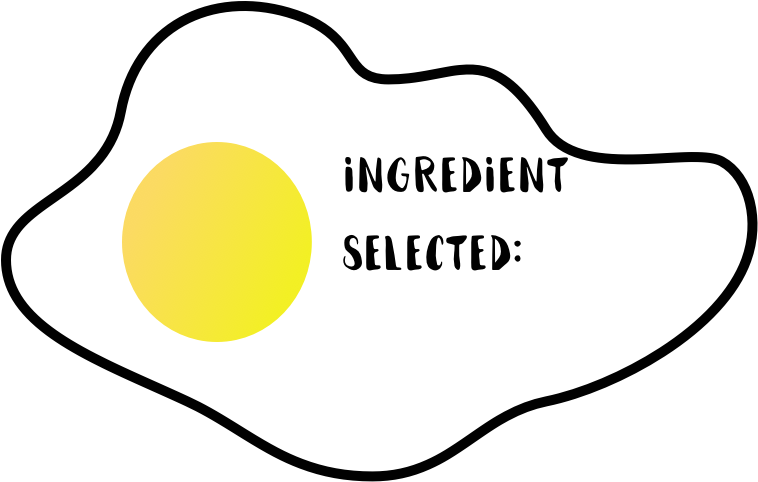
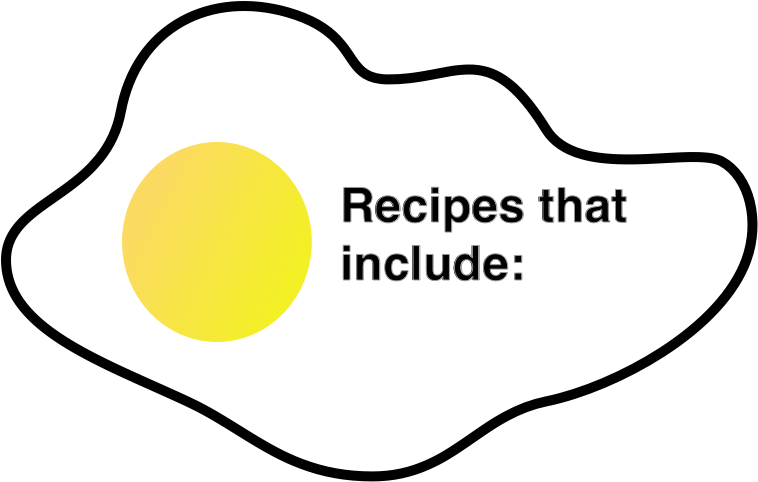
added egg

Changed region(s): [[0.4248, 0.3112, 0.8496, 0.5913]]

diff --git a/project3/index.html b/project3/index.html
@@ -49,7 +49,7 @@
 fieldset, label { margin: 0; padding: 0; }
 body{ margin: 20px; }
 h1 { font-size: 2.5em; margin: 10px; }
-h2 {font-size: 2em;}
+h2 {position: absolute; top:100px; font-size: 2em; text-align: center}
 h3 { font-size: 1em; margin: 10px; }
 
 /****** Style Star Rating Widget *****/
@@ -141,7 +141,8 @@ h3 { font-size: 1em; margin: 10px; }
             </div>
 
             <div class="col-lg-4">
-							<h2 id="selected_ingredient"> </h2>
+							<img  src="images/egg.png" alt="" width="300" /><h2 id="selected_ingredient"> </h2>
+							<!-- <h2 id="selected_ingredient"> </h2> -->
                 <div class=" row">
                     <div class="dropdown" style="padding-top: 40px">
                         <button class="btn btn-primary dropdown-toggle" id="menu1" type="button" data-toggle="dropdown">Select ranking (default top rated recipes)
@@ -579,8 +580,8 @@ function printCholesterol(data){
       d3.selectAll("path").style("visibility","visible")
 
       lasthovered=d.data.ingredient
-			selected_ingredient="Recipes that include "+lasthovered
-			document.getElementById("selected_ingredient").innerHTML=selected_ingredient
+
+			document.getElementById("selected_ingredient").innerHTML=lasthovered
 
       recipes=specificData.filter(function(i){
         return i[lasthovered]==="1"})
